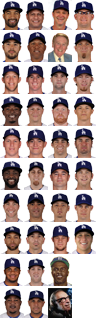
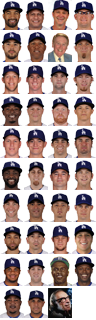
+ Hanley Ramirez
Also working on the flair selector, which necessitated some changes.

Changed region(s): [[0.75, 0.7812, 1.0, 0.9062]]

diff --git a/stylesheet.css b/stylesheet.css
@@ -247,13 +247,16 @@ div.titlebox span.word {
 .flairselector .customizer {
     display: none !important;
     }
+.flairselector .author {
+    display: none;
+    }
 .flair {
     border: none !important;
     top: 20px;
     padding: 0px;
     background: url(%%numbers%%);
     display: inline-block;
-    background-position: 100px 100px;
+    background-repeat: no-repeat;
     }
 .link .flair {
     font-size: 0;
@@ -309,60 +312,61 @@ div.titlebox span.word {
 .flair-9 {background-position: -69px -1242px; width: 19px; height: 19px;} 
 .flair-99 {background-position: -69px -1311px; width: 19px; height: 19px;} 
 
-.flair-Kemp, .flair-Ethier, .flair-Kershaw, .flair-Gordon, .flair-AJEllis, .flair-Gwynn, .flair-Capuano, .flair-Loney, .flair-Jansen, .flair-Giants, .flair-Abreu, .flair-Belisario, .flair-Billingsley, .flair-MEllis, .flair-Guerra, .flair-Harang, .flair-Hairston, .flair-Treanor, .flair-Lindblom, .flair-Rivera, .flair-Mattingly, .flair-Scully, .flair-Kennedy, .flair-Coffey, .flair-Eovaldi, .flair-Lilly, .flair-Cruz, .flair-Elbert, .flair-Robinson, .flair-Asimov, .flair-Fife, .flair-Guerrier, .flair-MacDougal, .flair-Sellers, .flair-VanSlyke, .flair-Wall, .flair-Wright, .flair-Tolleson {
-    background-image: url(%%FaceFlair%%);
+.flair-Kemp, .flair-Ethier, .flair-Kershaw, .flair-Gordon, .flair-AJEllis, .flair-Gwynn, .flair-Capuano, .flair-Loney, .flair-Jansen, .flair-Giants, .flair-Abreu, .flair-Belisario, .flair-Billingsley, .flair-MEllis, .flair-Guerra, .flair-Harang, .flair-Hairston, .flair-Treanor, .flair-Lindblom, .flair-Rivera, .flair-Mattingly, .flair-Scully, .flair-Kennedy, .flair-Coffey, .flair-Eovaldi, .flair-Lilly, .flair-Cruz, .flair-Elbert, .flair-Robinson, .flair-Asimov, .flair-Fife, .flair-Guerrier, .flair-MacDougal, .flair-Sellers, .flair-VanSlyke, .flair-Wall, .flair-Wright, .flair-Tolleson, .flair-Ramirez {
+    background-image: url(%%Face-Flair%%);
     font-size: 0px;
     height: 30px;
     margin-right: 2px;
     vertical-align: bottom;
     width: 24px;
     }
-a[href="/Kemp"], a[href="/Ethier"], a[href="/Kershaw"], a[href="/Gordon"], a[href="/AJEllis"], a[href="/Gwynn"], a[href="/Capuano"], a[href="/Loney"], a[href="/Jansen"], a[href="/Uribe"], a[href="/Abreu"], a[href="/Belisario"], a[href="/Billingsley"], a[href="/MEllis"], a[href="/Guerra"], a[href="/Harang"], a[href="/Hairston"], a[href="/Treanor"], a[href="/Lindblom"], a[href="/Rivera"], a[href="/Mattingly"], a[href="/Scully"], a[href="/Kennedy"], a[href="/Coffey"], a[href="/Eovaldi"], a[href="/Lilly"], a[href="/Cruz"], a[href="/Elbert"], a[href="/Robinson"], a[href="/Fife"], a[href="/Guerrier"], a[href="/MacDougal"], a[href="/Sellers"], a[href="/VanSlyke"], a[href="/Wall"], a[href="/Wright"], a[href="/Tolleson"] {
-    background-image: url(%%FaceFlair%%);
+a[href="/Kemp"], a[href="/Ethier"], a[href="/Kershaw"], a[href="/Gordon"], a[href="/AJEllis"], a[href="/Gwynn"], a[href="/Capuano"], a[href="/Loney"], a[href="/Jansen"], a[href="/Uribe"], a[href="/Abreu"], a[href="/Belisario"], a[href="/Billingsley"], a[href="/MEllis"], a[href="/Guerra"], a[href="/Harang"], a[href="/Hairston"], a[href="/Treanor"], a[href="/Lindblom"], a[href="/Rivera"], a[href="/Mattingly"], a[href="/Scully"], a[href="/Kennedy"], a[href="/Coffey"], a[href="/Eovaldi"], a[href="/Lilly"], a[href="/Cruz"], a[href="/Elbert"], a[href="/Robinson"], a[href="/Fife"], a[href="/Guerrier"], a[href="/MacDougal"], a[href="/Sellers"], a[href="/VanSlyke"], a[href="/Wall"], a[href="/Wright"], a[href="/Tolleson"], a[href="/Ramirez"] {
+    background-image: url(%%Face-Flair%%);
     display: inline-block;
     font-size: 0px;
     height: 30px;
     vertical-align: middle;
     width: 24px;
-}
+    }
 .flair-Kemp, a[href="/Kemp"] {background-position: 0 0;}
-.flair-Ethier, a[href="/Ethier"] {background-position: 0 -32px;}
-.flair-Kershaw, a[href="/Kershaw"] {background-position: 0 -64px;}
-.flair-Gordon, a[href="/Gordon"] {background-position: 0 -96px;}
-.flair-AJEllis, a[href="/AJEllis"] {background-position: 0 -128px;}
-.flair-Gwynn, a[href="/Gwynn"] {background-position: 0 -160px;}
-.flair-Capuano, a[href="/Capuano"] {background-position: 0 -192px;}
-.flair-Loney, a[href="/Loney"] {background-position: 0 -224px;}
-.flair-Jansen, a[href="/Jansen"] {background-position: 0 -256px;}
-.flair-Giants, a[href="/Uribe"] {background-position: 0 -288px;}
-.flair-Abreu, a[href="/Abreu"] {background-position: -24px 0;}
-.flair-Belisario, a[href="/Belisario"] {background-position: -24px -32px;}
-.flair-Billingsley, a[href="/Billingsley"] {background-position: -24px -64px;}
-.flair-MEllis, a[href="/MEllis"] {background-position: -24px -96px;}
-.flair-Guerra, a[href="/Guerra"] {background-position: -24px -128px;}
-.flair-Harang, a[href="/Harang"] {background-position: -24px -160px;}
-.flair-Hairston, a[href="/Hairston"] {background-position: -24px -192px;}
-.flair-Treanor, a[href="/Treanor"] {background-position: -24px -224px;}
-.flair-Lindblom, a[href="/Lindblom"] {background-position: -24px -256px;}
-.flair-Rivera, a[href="/Rivera"] {background-position: -24px -288px;}
-.flair-Mattingly, a[href="/Mattingly"] {background-position: -48px 0;}
-.flair-Scully, a[href="/Scully"] {background-position: -48px -32px;}
-.flair-Kennedy, a[href="/Kennedy"] {background-position: -48px -64px;}
-.flair-Coffey, a[href="/Coffey"] {background-position: -48px -96px;}
-.flair-Eovaldi, a[href="/Eovaldi"] {background-position: -48px -128px;}
-.flair-Lilly, a[href="/Lilly"] {background-position: -48px -160px;}
-.flair-Cruz, a[href="/Cruz"] {background-position: -48px -192px;}
-.flair-Elbert, a[href="/Elbert"] {background-position: -48px -224px;}
-.flair-Robinson, a[href="/Robinson"] {background-position: -48px -256px;}
-.flair-Asimov {background-position: -48px -288px;}
-.flair-Fife, a[href="/Fife"] {background-position: -72px 0;}
-.flair-Guerrier, a[href="/Guerrier"] {background-position: -72px -32px;}
-.flair-MacDougal, a[href="/MacDougal"] {background-position: -72px -64px;}
-.flair-Sellers, a[href="/Sellers"] {background-position: -72px -96px;}
-.flair-VanSlyke, a[href="/Van Slyke"] {background-position: -72px -128px;}
-.flair-Wall, a[href="/Wall"] {background-position: -72px -160px;}
-.flair-Wright, a[href="/Wright"] {background-position: -72px -192px;}
-.flair-Tolleson, a[href="/Tolleson"] {background-position: -72px -224px;}
+.flair-Ethier, a[href="/Ethier"] {background-position: 0 -50px;}
+.flair-Kershaw, a[href="/Kershaw"] {background-position: 0 -100px;}
+.flair-Gordon, a[href="/Gordon"] {background-position: 0 -150px;}
+.flair-AJEllis, a[href="/AJEllis"] {background-position: 0 -200px;}
+.flair-Gwynn, a[href="/Gwynn"] {background-position: 0 -250px;}
+.flair-Capuano, a[href="/Capuano"] {background-position: 0 -300px;}
+.flair-Loney, a[href="/Loney"] {background-position: 0 -350px;}
+.flair-Jansen, a[href="/Jansen"] {background-position: 0 -400px;}
+.flair-Giants, a[href="/Uribe"] {background-position: 0 -450px;}
+.flair-Abreu, a[href="/Abreu"] {background-position: 0 -500px;}
+.flair-Belisario, a[href="/Belisario"] {background-position: 0 -550px;}
+.flair-Billingsley, a[href="/Billingsley"] {background-position: 0 -600px;}
+.flair-MEllis, a[href="/MEllis"] {background-position: 0 -650px;}
+.flair-Guerra, a[href="/Guerra"] {background-position: 0 -700px;}
+.flair-Harang, a[href="/Harang"] {background-position: 0 -750px;}
+.flair-Hairston, a[href="/Hairston"] {background-position: 0 -800px;}
+.flair-Treanor, a[href="/Treanor"] {background-position: 0 -850px;}
+.flair-Lindblom, a[href="/Lindblom"] {background-position: 0 -900px;}
+.flair-Rivera, a[href="/Rivera"] {background-position: 0 -950px;}
+.flair-Mattingly, a[href="/Mattingly"] {background-position: 0 -1000px;}
+.flair-Scully, a[href="/Scully"] {background-position: 0 -1050px;}
+.flair-Kennedy, a[href="/Kennedy"] {background-position: 0 -1100px;}
+.flair-Coffey, a[href="/Coffey"] {background-position: 0 -1150px;}
+.flair-Eovaldi, a[href="/Eovaldi"] {background-position: 0 -1200px;}
+.flair-Lilly, a[href="/Lilly"] {background-position: 0 -1250px;}
+.flair-Cruz, a[href="/Cruz"] {background-position: 0 -1300px;}
+.flair-Elbert, a[href="/Elbert"] {background-position: 0 -1350px;}
+.flair-Robinson, a[href="/Robinson"] {background-position: 0 -1400px;}
+.flair-Asimov {background-position: 0 -1450px;}
+.flair-Fife, a[href="/Fife"] {background-position: 0 -1500px;}
+.flair-Guerrier, a[href="/Guerrier"] {background-position: 0 -1550px;}
+.flair-MacDougal, a[href="/MacDougal"] {background-position: 0 -1600px;}
+.flair-Sellers, a[href="/Sellers"] {background-position: 0 -1650px;}
+.flair-VanSlyke, a[href="/Van Slyke"] {background-position: 0 -1700px;}
+.flair-Wall, a[href="/Wall"] {background-position: 0 -1750px;}
+.flair-Wright, a[href="/Wright"] {background-position: 0 -1800px;}
+.flair-Tolleson, a[href="/Tolleson"] {background-position: 0 -1850px;}
+.flair-Ramirez, a[href="/Ramirez"] {background-position: 0 -1900px;}
 
 /* Reddit Enhancement Suite
 ------------------------------------------------------------------------------ */
@@ -411,5 +415,3 @@ a[href="/TEX"], a[href="/rangers"], a[href="/r/texasrangers"]:empty {background-
 a[href="/TOR"], a[href="/bluejays"], a[href="/r/torontobluejays"]:empty {background-position: 0 -567px;}
 a[href="/WSH"], a[href="/nationals"], a[href="/r/nationals"]:empty {background-position: 0 -588px;}
 a[href="/BAL"], a[href="/orioles"], a[href="/r/orioles"]:empty {background-position: 0 -609px;}
-
-/* Testing update script */
